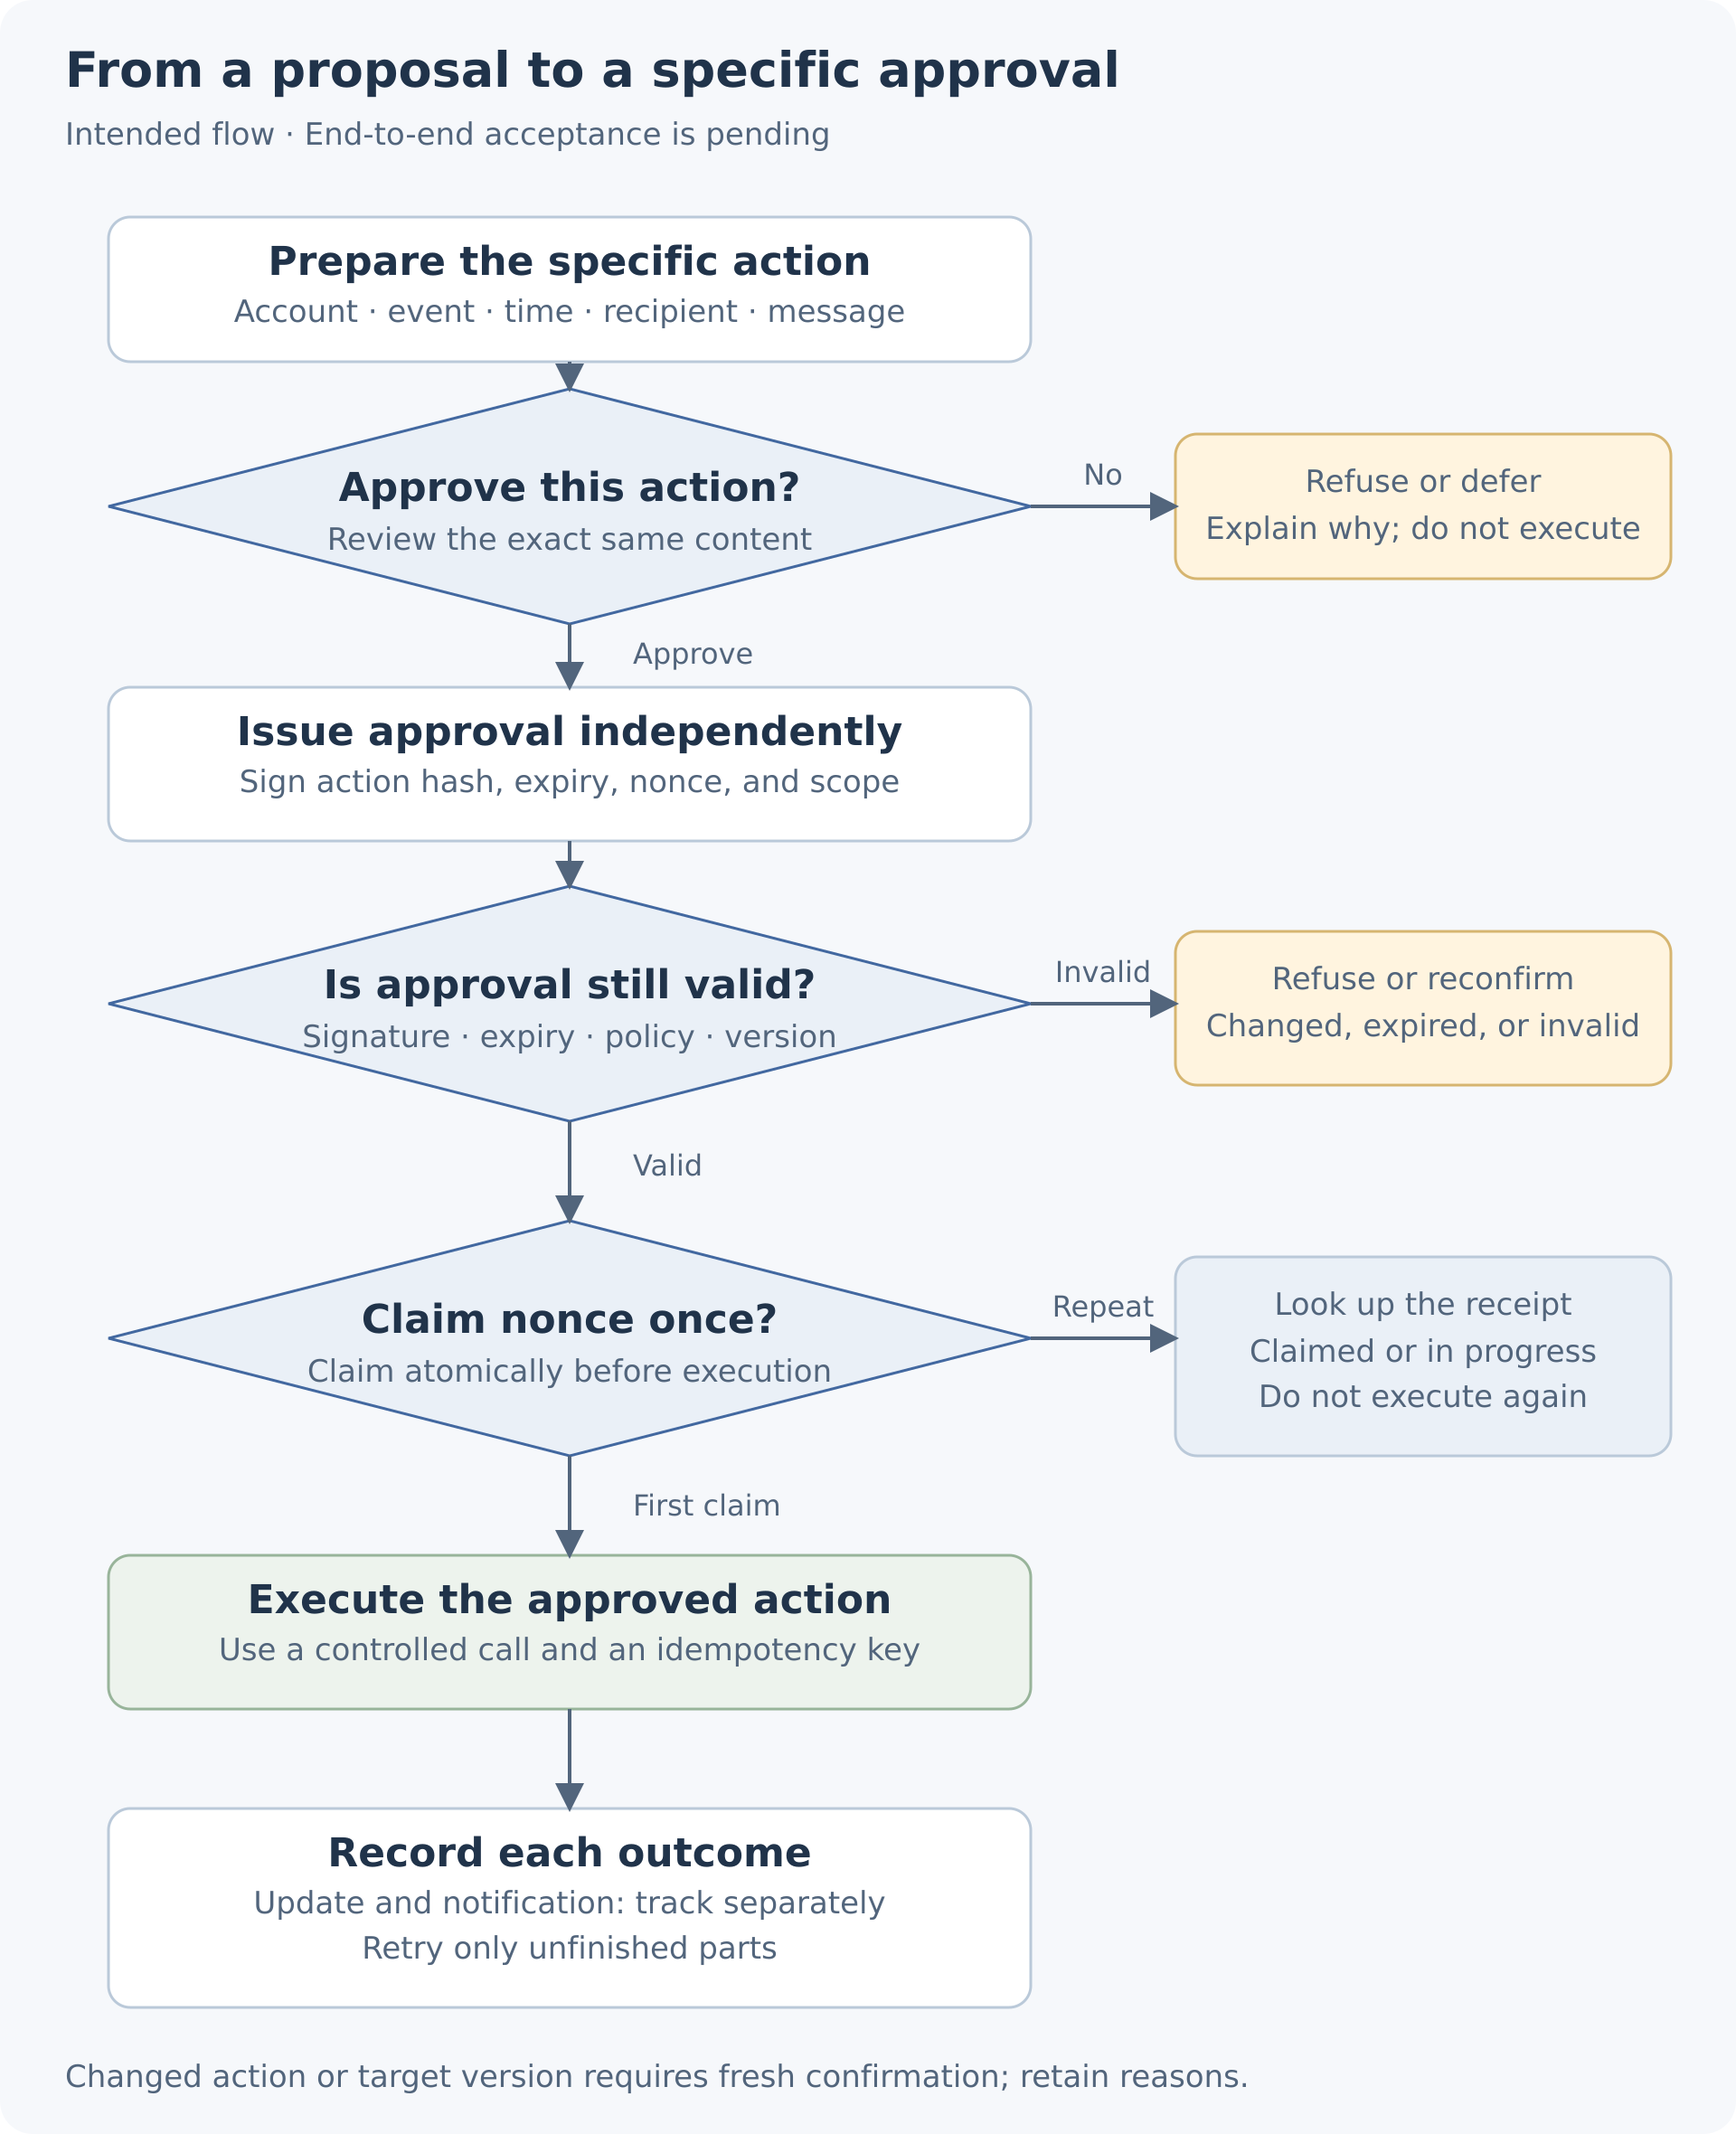
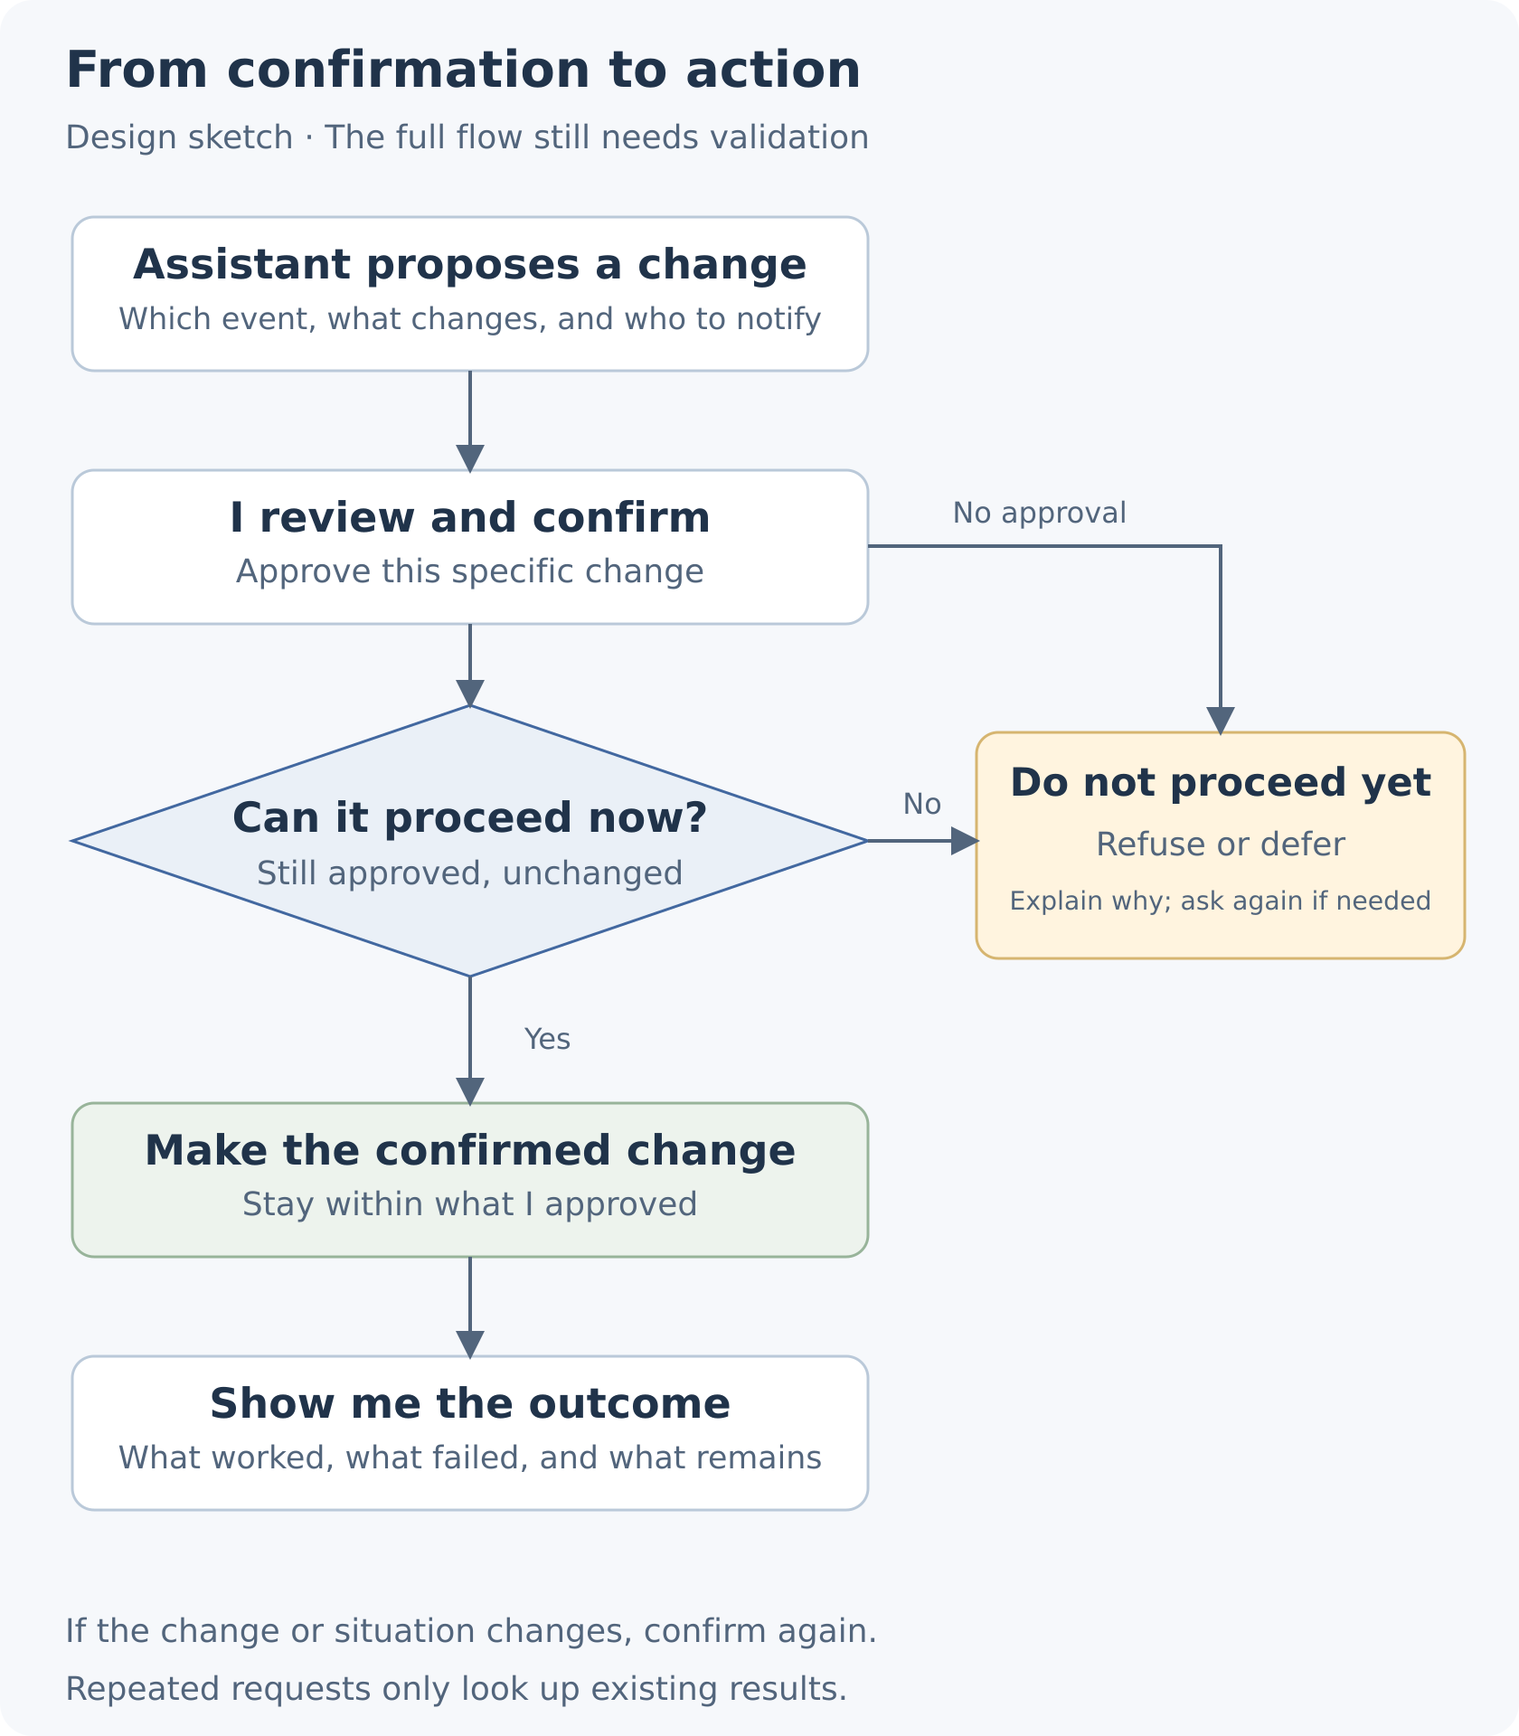
content: simplify approval diagrams for readers

diff --git a/tests/e2e/site.spec.ts b/tests/e2e/site.spec.ts
@@ -34,7 +34,7 @@ for (const { prefix, lang, heading, query, diagram } of variants) {
     await expect(page.locator('article pre')).toHaveCount(2);
     for (const [name, width, height] of [
       ['overview', 2320, 1320],
-      ['approval-flow', 1920, 2360],
+      ['approval-flow', 1680, 1920],
     ] as const) {
       const image = page.locator(`article img[src="/tech/images/yaaa/${name}-${diagram}.png"]`);
       await expect(image).toHaveCount(1);

diff --git a/docs/content.md b/docs/content.md
@@ -18,7 +18,7 @@ Amanuensis handles information triage and attention-aware delivery within Yaaa. 
 
 ## Assets and links
 
-Each architecture diagram has a 2320 × 1320 PNG and an editable SVG beside it. The approval flow has a 1920 × 2360 PNG and an editable SVG at `public/images/yaaa/approval-flow-<language>.*`. Use the matching language's PNGs in each article. Use root-relative `/images/yaaa/<name>-<language>.png` paths in Markdown; the existing base-links plugin adds the configured mount at build time. Do not include `/tech` twice or copy workstation paths into content.
+Each architecture diagram has a 2320 × 1320 PNG and an editable SVG beside it. The approval flow has a 1680 × 1920 PNG and an editable SVG at `public/images/yaaa/approval-flow-<language>.*`. The approval diagram shows five user-facing steps and a refusal/defer branch; signing, hashing, and nonce details belong in the accompanying prose. Use the matching language's PNGs in each article. Use root-relative `/images/yaaa/<name>-<language>.png` paths in Markdown; the existing base-links plugin adds the configured mount at build time. Do not include `/tech` twice or copy workstation paths into content.
 
 Language links for articles are generated from real content entries. Each article displays both diagrams in its own language, without links to other language images. Preserve alt text and the conceptual-design caption. The first body mention of Yaaa links to its portfolio project page; introduce Amanuensis and link to its portfolio project page before using the component name in the progress table. Keep progress descriptions in plain language and preserve the October 25, 2026 evidence date until new evidence supports an update.
 

diff --git a/src/content/posts/ja/yaaa.md b/src/content/posts/ja/yaaa.md
@@ -85,9 +85,9 @@ def cloud_eligible(sensitivity, sources):
 
 アシスタントは「予約を火曜の午後へ動かす」と提案できます。実行側には、アカウント、予定、新しい時刻、相手への通知の有無が必要です。承認は利用者が実際に確認した内容に紐付けます。
 
-![承認フロー：具体的な操作の確認、承認発行、実行前の検査、使い捨て nonce の取得、実行と結果の記録。検査に通らなければ実行せず、重複依頼は記録の参照だけを行う](/images/yaaa/approval-flow-ja.png)
+![承認フロー：変更案を示し、私が確認・承認した後、実行可能か確かめて実行し、結果を知らせる。未承認または実行できない場合は止めて理由を示す](/images/yaaa/approval-flow-ja.png)
 
-_これは目標とする承認フローです。全体を通した動作検証はまだ完了していません。操作内容や対象のバージョンが変われば再確認が必要で、同じ依頼を再送しても再実行しません。_
+_図は利用者がたどる手順を示します。変更内容や状況が変われば再確認し、同じ依頼を再送しても再実行しません。一連の動作はまだ検証待ちです。_
 
 想定する形式は次のとおりです。識別子や署名値は例示です。
 

diff --git a/src/content/posts/en/yaaa.md b/src/content/posts/en/yaaa.md
@@ -85,9 +85,9 @@ Here, `sources` contains validated pairs of identifiers, not paths supplied by a
 
 The assistant may propose moving the appointment to Tuesday afternoon. The executor needs the account, event, new time, and whether the other party should be notified. Approval should bind to the content the user actually reviewed.
 
-![Approval flow: review a specific action, issue approval, check it before execution, claim a one-time nonce, execute, and record each outcome; failed checks stop execution and duplicate requests only look up receipts](/images/yaaa/approval-flow-en.png)
+![Approval flow: propose a change, review and confirm, check whether it can proceed, act, and show the outcome; otherwise stop and explain why](/images/yaaa/approval-flow-en.png)
 
-_This is the intended approval flow; end-to-end acceptance is still pending. Changes to the action or target version require fresh confirmation. Duplicate submissions must not execute again._
+_The diagram shows the steps a user sees. Changes require fresh confirmation, and repeated requests must not repeat the action. The complete flow still awaits validation._
 
 The intended shape is shown below. Identifiers and signature values are illustrative:
 

diff --git a/src/content/posts/zh/yaaa.md b/src/content/posts/zh/yaaa.md
@@ -85,9 +85,9 @@ def cloud_eligible(sensitivity, sources):
 
 助理可以提出“把预约挪到周二下午”。执行器需要知道具体账户、事件、目标时间，以及是否要通知对方。批准应绑定到用户实际看过的内容。
 
-![批准流程：确认具体操作、签发批准、执行前检查、领取一次性凭证、执行并分别记录结果；未通过检查时拒绝或延后，重复请求只查回执](/images/yaaa/approval-flow-zh.png)
+![批准流程：助理列出改动，我核对并确认，检查能否执行，执行后告诉我结果；未确认或不能执行时，先暂停并说明原因](/images/yaaa/approval-flow-zh.png)
 
-_这是完整批准链的目标流程，目前还没有完成端到端验收。修改操作内容或目标版本后，需要重新确认；重复提交不能再次执行。_
+_图只展示用户会经历的步骤。改动内容或情况变化后要重新确认，重复提交不会重复执行；这套完整流程仍待验收。_
 
 预期形式如下，标识与签名值均为示意：
 
